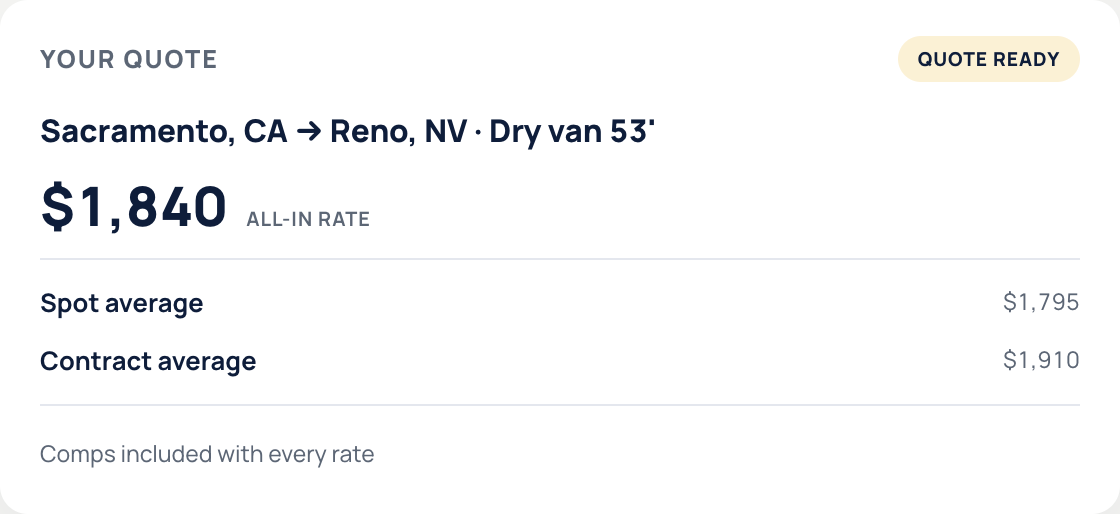
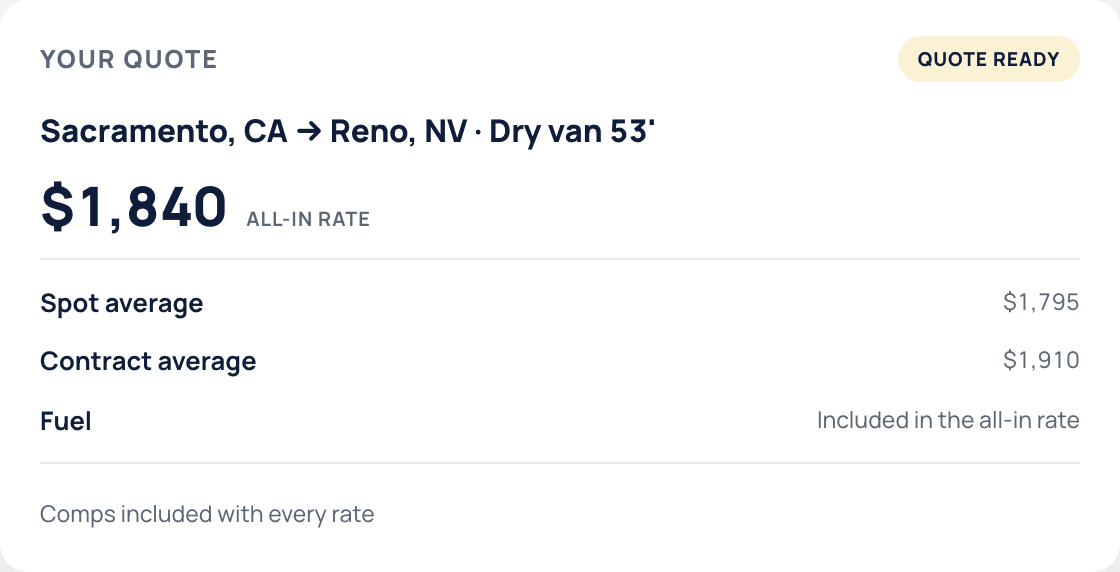
Glass step cards with gold-on-selected, solid pane fill, fuller step mocks, hero entrance
Fourth feedback pass: the how-we-run steps get their card chrome back
(glass fill + hairline, selected card flips to the accordion's gold-on-open
recipe so the active one is unmistakable), the .pane mat fill goes solid
(#e2e8f2) instead of a translucent wash over the page, all four step mocks
gain rows so the pane reads substantial (the clean-close card grew from two
lines to POD/invoice/accessorials/rate-con plus the same-day promise), and
the heroes get a pure-CSS staggered rise-in on load with reveals extended
to the logo band and footer wordmark.

diff --git a/public/site/newpeer.css b/public/site/newpeer.css
@@ -289,6 +289,19 @@ p { margin: 0; }
 .hero--home h1 { font-size: clamp(2.3rem, 3.6vw, 3.4rem); max-width: 16ch; }
 .hero--home .hero__sub { font-size: clamp(1.1rem, 1.5vw, 1.45rem); max-width: 48ch; }
 
+/* Load-time entrance for the heroes: headline, sub, CTA, and pane rise in
+   with a short stagger on arrival (scroll reveals cover everything below the
+   fold). Pure CSS so it needs no hydration; the global reduced-motion rule
+   kills it. */
+@keyframes rise-in {
+  from { opacity: 0; transform: translateY(18px); }
+  to { opacity: 1; transform: none; }
+}
+.hero__content > * { animation: rise-in 0.7s cubic-bezier(0.22, 0.61, 0.36, 1) both; }
+.hero__content > :nth-child(2) { animation-delay: 100ms; }
+.hero__content > :nth-child(3) { animation-delay: 200ms; }
+.hero__panel { animation: rise-in 0.7s cubic-bezier(0.22, 0.61, 0.36, 1) 260ms both; }
+
 /* The frosted pane (the Flexport treatment): a translucent surface that only
    ever sits over a photo section, so the blur always has texture to sample. */
 .glass {
@@ -735,10 +748,11 @@ p { margin: 0; }
   margin-top: clamp(2.2rem, 4vw, 3.2rem);
   border: 1px solid var(--line-strong);
   border-radius: calc(var(--r-xl) + 26px);
-  /* A wide mat, and a tinted fill so the ring between the cells and the
-     outer hairline reads as a colored surround, not leftover page. */
+  /* A wide mat with a solid colored fill (not a translucent wash over the
+     page), so the ring between the cells and the outer hairline reads as a
+     deliberate colored surround. */
   padding: clamp(1.1rem, 2.2vw, 1.9rem);
-  background: rgba(14, 29, 58, 0.07);
+  background: #e2e8f2;
 }
 .section--navy .pane, .section--photo .pane {
   border-color: rgba(255, 255, 255, 0.2);
@@ -815,20 +829,26 @@ p { margin: 0; }
 .howrun__grid {
   display: grid;
   grid-template-columns: 1fr 1fr;
-  gap: clamp(1.8rem, 3.2vw, 2.8rem) clamp(1.4rem, 2.5vw, 2.2rem);
+  gap: clamp(0.9rem, 1.6vw, 1.3rem);
   align-content: center;
   min-width: 0;
 }
 .howcell {
-  display: flex; flex-direction: column; align-items: flex-start;
-  background: none; border: 0; padding: 0; min-width: 0;
+  display: flex; flex-direction: column; align-items: flex-start; min-width: 0;
+  padding: clamp(1.2rem, 2vw, 1.6rem);
+  background: rgba(255, 255, 255, 0.07);
+  border: 1px solid rgba(255, 255, 255, 0.16);
+  border-radius: var(--r-xl);
+  backdrop-filter: blur(10px) saturate(1.1);
+  -webkit-backdrop-filter: blur(10px) saturate(1.1);
   font: inherit; text-align: left; color: #fff; cursor: pointer;
-  opacity: 0.6;
-  transition: opacity 0.35s ease;
+  transition: background 0.3s ease, border-color 0.3s ease;
 }
-.howcell:hover { opacity: 0.85; }
-.howcell.is-active { opacity: 1; }
-.howcell:focus-visible { outline: 2px solid #fff; outline-offset: 6px; border-radius: 4px; }
+.howcell:hover { border-color: rgba(255, 255, 255, 0.35); }
+/* The selected card is unmistakable: the accordion's gold-on-open recipe —
+   a gold hairline and a brighter fill. */
+.howcell.is-active { background: rgba(255, 255, 255, 0.13); border-color: var(--accent); }
+.howcell:focus-visible { outline: 2px solid #fff; outline-offset: 3px; }
 /* The Get-a-Quote recipe: gold disc, navy glyph — it pops over the photo. */
 .howcell__icon {
   width: 52px; height: 52px;
@@ -1013,10 +1033,11 @@ p { margin: 0; }
   .brand__mark { width: 26px; height: 26px; }
   .logo-band__row { justify-content: center; gap: 1.5rem 2.2rem; }
 
+  .howcell { padding: 1rem; }
   .howcell__icon { width: 42px; height: 42px; margin-bottom: 0.8rem; }
   .howcell__icon svg { width: 21px; height: 21px; }
   .howcell__sub { font-size: 0.88rem; }
-  .howrun__grid { gap: 1.6rem 1.1rem; }
+  .howrun__grid { gap: 0.9rem; }
   /* The timeline wraps to a 2x2 grid; the track only makes sense on one
      row, so it hides. */
   .timeline { grid-template-columns: repeat(2, 1fr); gap: 1.4rem 1rem; }

diff --git a/app/(marketing)/mock-lab/page.tsx b/app/(marketing)/mock-lab/page.tsx
@@ -237,6 +237,10 @@ function CompsMock() {
           <b>Contract average</b>
           <span>$1,910</span>
         </li>
+        <li>
+          <b>Fuel</b>
+          <span>Included in the all-in rate</span>
+        </li>
       </ul>
       <div className="mocka__foot">
         <span className="mocka__note">Comps included with every rate</span>
@@ -273,6 +277,9 @@ function VettingMock() {
           Identity &middot; confirmed at dispatch
         </li>
       </ul>
+      <div className="mocka__foot">
+        <span className="mocka__note">Rechecked on every load, not only at signup.</span>
+      </div>
     </div>
   );
 }
@@ -289,6 +296,10 @@ function UpdatesMock() {
       </div>
       <div className="mocka__rule" />
       <ul className="mocka__rows">
+        <li>
+          <b>Load booked</b>
+          <span>Aug 6, 4:18 PM PT</span>
+        </li>
         <li>
           <b>Carrier dispatched</b>
           <span>6:40 AM PT</span>
@@ -309,7 +320,9 @@ function UpdatesMock() {
   );
 }
 
-/** Accordion step 4, "A clean close": the delivery documents card. */
+/** Step 4, "A clean close": the delivery documents card. The fullest of the
+ * four step mocks (Aaron: the short version read thin), so it lists every
+ * closing artifact and the same-day promise. */
 function CloseMock() {
   return (
     <div className="mocka">
@@ -317,9 +330,13 @@ function CloseMock() {
         <strong>Delivery documents</strong>
         <span className="mock__badge mock__badge--green">Posted same day</span>
       </div>
-      <p className="mocka__meta">Proof of delivery &middot; signed at receiver</p>
+      <p className="mocka__meta">PEER-51427 &middot; Delivered Aug 7, 3:04 PM PT</p>
       <div className="mocka__rule" />
       <ul className="mocka__rows">
+        <li>
+          <b>Signed POD</b>
+          <span>Signed at receiver &middot; posted 3:22 PM</span>
+        </li>
         <li>
           <b>Invoice INV-2041</b>
           <span>$1,840.00 &middot; matches the quote</span>
@@ -328,7 +345,14 @@ function CloseMock() {
           <b>Accessorials</b>
           <span>In writing, none this load</span>
         </li>
+        <li>
+          <b>Rate confirmation</b>
+          <span>On file, signed before pickup</span>
+        </li>
       </ul>
+      <div className="mocka__foot">
+        <span className="mocka__note">Everything in your inbox the day the load delivers.</span>
+      </div>
     </div>
   );
 }

diff --git a/components/site/HowWeRun.tsx b/components/site/HowWeRun.tsx
@@ -35,7 +35,7 @@ const STEPS: Step[] = [
     icon: (
       <svg viewBox="0 0 24 24" {...STROKE}><circle cx="12" cy="12" r="10" /><path d="M16 8h-6a2 2 0 1 0 0 4h4a2 2 0 1 1 0 4H8" /><path d="M12 18V6" /></svg>
     ),
-    mock: { src: "/site/mock-comps@2x.png", width: 560, height: 257 },
+    mock: { src: "/site/mock-comps@2x.png", width: 560, height: 286 },
   },
   {
     id: "screening",
@@ -44,7 +44,7 @@ const STEPS: Step[] = [
     icon: (
       <svg viewBox="0 0 24 24" {...STROKE}><path d="M12 3 5 6v5c0 4.5 3 7.5 7 9 4-1.5 7-4.5 7-9V6l-7-3Z" /><path d="m9 12 2 2 4-4" /></svg>
     ),
-    mock: { src: "/site/mock-vetting@2x.png", width: 560, height: 229 },
+    mock: { src: "/site/mock-vetting@2x.png", width: 560, height: 275 },
   },
   {
     id: "tracking",
@@ -53,7 +53,7 @@ const STEPS: Step[] = [
     icon: (
       <svg viewBox="0 0 24 24" {...STROKE}><path d="M20 10c0 6-8 12-8 12s-8-6-8-12a8 8 0 0 1 16 0Z" /><circle cx="12" cy="10" r="3" /></svg>
     ),
-    mock: { src: "/site/mock-updates@2x.png", width: 560, height: 210 },
+    mock: { src: "/site/mock-updates@2x.png", width: 560, height: 239 },
   },
   {
     id: "close",
@@ -62,7 +62,7 @@ const STEPS: Step[] = [
     icon: (
       <svg viewBox="0 0 24 24" {...STROKE}><path d="M15 2H6a2 2 0 0 0-2 2v16a2 2 0 0 0 2 2h12a2 2 0 0 0 2-2V7Z" /><path d="M14 2v4a2 2 0 0 0 2 2h4" /><path d="m9 15 2 2 4-4" /></svg>
     ),
-    mock: { src: "/site/mock-close@2x.png", width: 560, height: 171 },
+    mock: { src: "/site/mock-close@2x.png", width: 560, height: 275 },
   },
 ];
 

diff --git a/app/(marketing)/page.tsx b/app/(marketing)/page.tsx
@@ -72,7 +72,7 @@ export default function HomePage() {
 
         {/* Mentors/advisors proof band, first thing below the fold */}
         <section className="logo-band" id="mentors" aria-label="Mentors and advisors">
-          <div className="wrap">
+          <div className="wrap" data-reveal>
             <p className="logo-band__label">Mentors and advisors from</p>
             <div className="logo-band__row">
               <img src="/logos/atob.svg" alt="AtoB" />

diff --git a/components/site/SiteFooter.tsx b/components/site/SiteFooter.tsx
@@ -1,7 +1,7 @@
 export function SiteFooter() {
   return (
     <footer className="footer">
-      <div className="footer__word" aria-hidden="true">Peer</div>
+      <div className="footer__word" aria-hidden="true" data-reveal>Peer</div>
       <div className="wrap">
         <div className="footer__legal">
           <span>USDOT 5766712 · $75K BMC-84 bond on file · FMCSA broker authority pending · TIA member</span>
